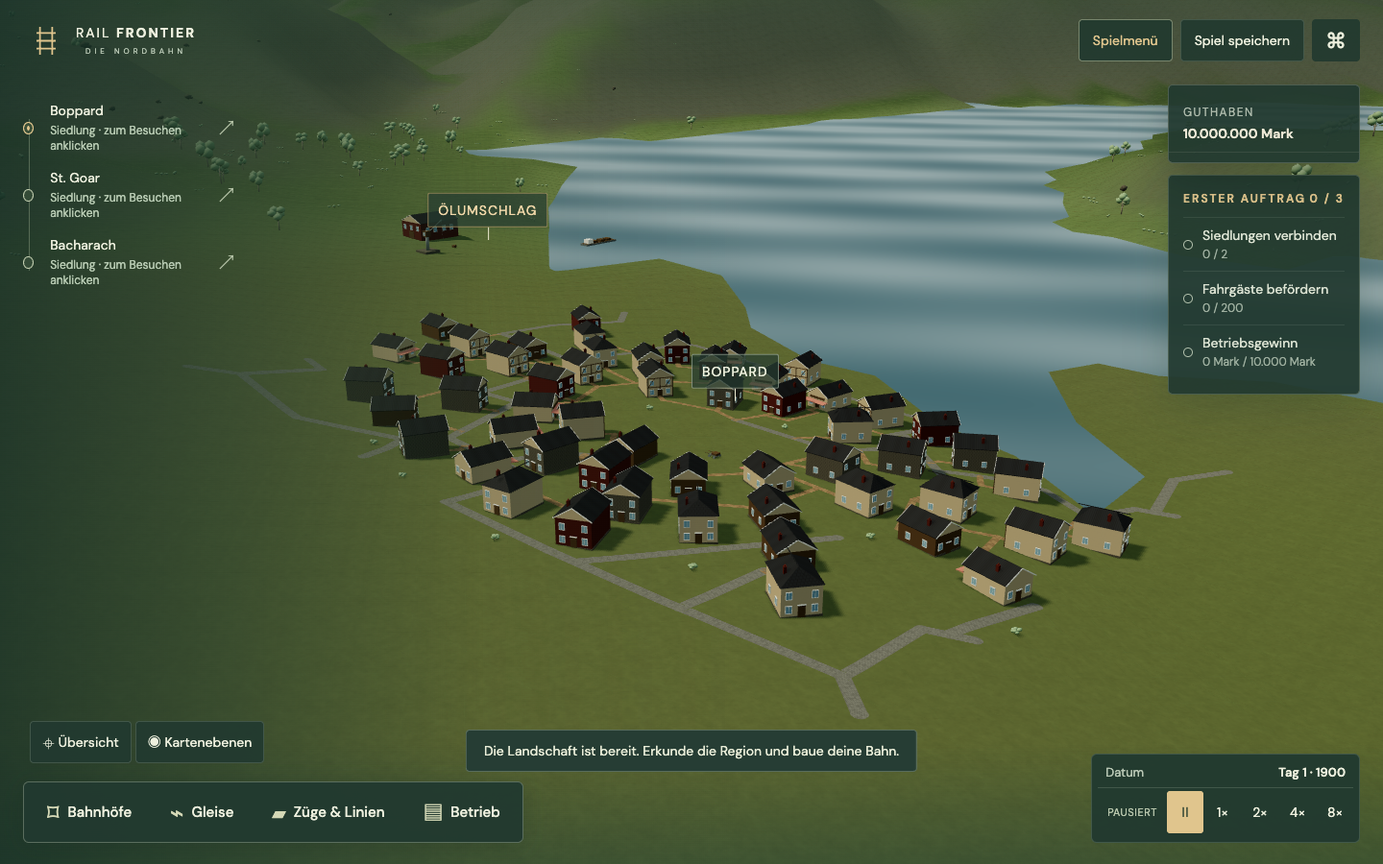
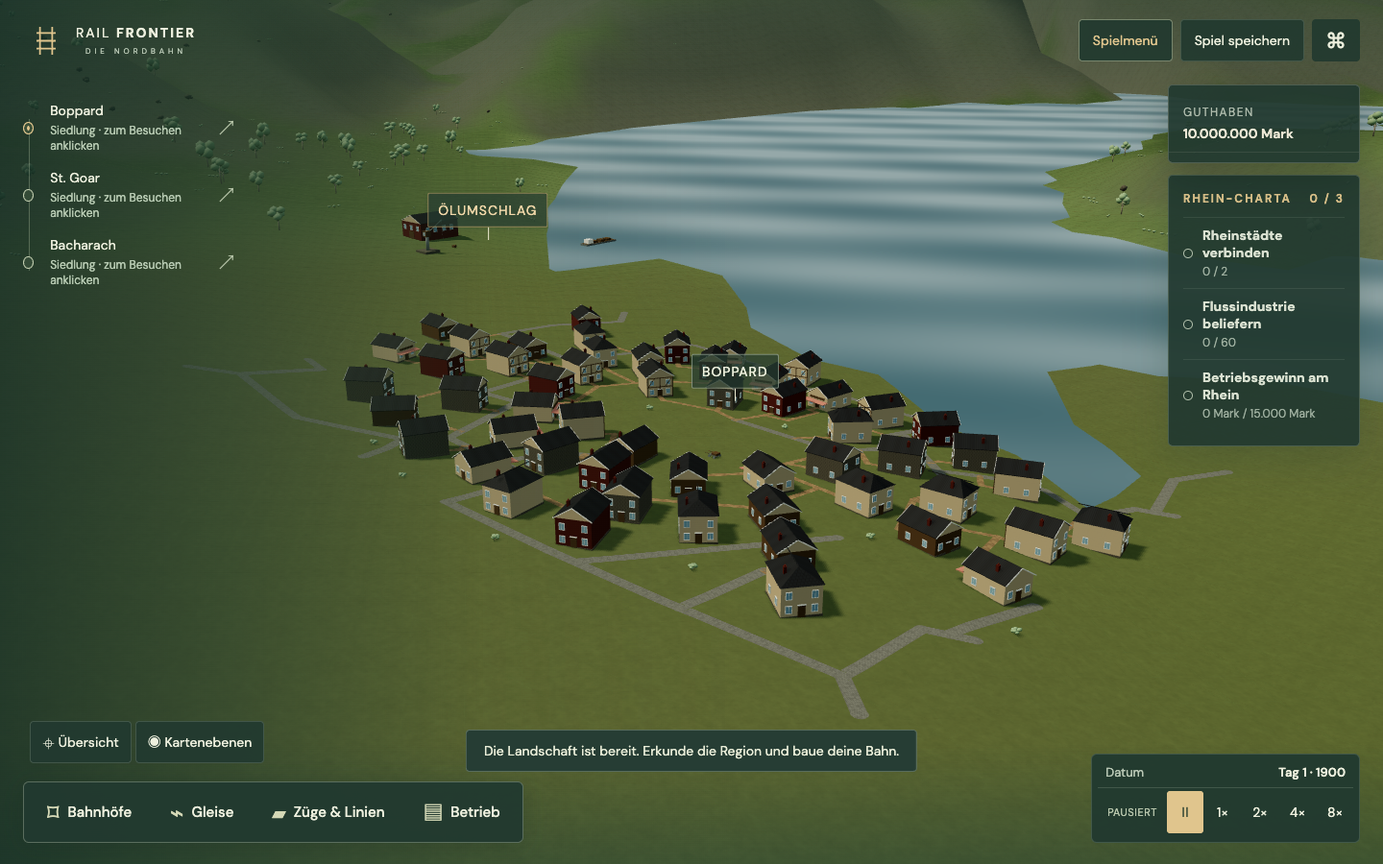
Refine regional water and campaign objectives

diff --git a/src/main.ts b/src/main.ts
@@ -136,10 +136,10 @@ setHtml(app, `
     <div class="study-note"><span>FIRST SERVICE</span><p id="service-summary">Preparing passenger operations.</p></div>
   </aside>
   <aside class="objective-card" aria-label="Campaign objectives">
-    <p class="eyebrow">FIRST CHARTER <span id="objective-count">0 / 3</span></p>
-    <div class="objective-row" data-objective="first-connection"><i></i><span>Connect settlements<small id="objective-connection">0 / 2</small></span></div>
-    <div class="objective-row" data-objective="first-passengers"><i></i><span>Carry passengers<small id="objective-passengers">0 / 200</small></span></div>
-    <div class="objective-row" data-objective="profitable-railway"><i></i><span>Operating profit<small id="objective-profit">NOK 0 / 10,000</small></span></div>
+    <p class="eyebrow"><span id="objective-title">FIRST CHARTER</span> <span id="objective-count">0 / 3</span></p>
+    <div class="objective-row" data-objective="first-connection"><i></i><span><b id="objective-label-0">Connect settlements</b><small id="objective-progress-0">0 / 2</small></span></div>
+    <div class="objective-row" data-objective="first-passengers"><i></i><span><b id="objective-label-1">Carry passengers</b><small id="objective-progress-1">0 / 200</small></span></div>
+    <div class="objective-row" data-objective="profitable-railway"><i></i><span><b id="objective-label-2">Operating profit</b><small id="objective-progress-2">NOK 0 / 10,000</small></span></div>
   </aside>
   <aside id="tutorial-card" class="tutorial-card" aria-label="Your first railway introduction" hidden>
     <div class="tutorial-progress"><span id="tutorial-step">STEP 1 OF 7</span><button id="dismiss-tutorial" type="button">End introduction</button></div>
@@ -714,16 +714,15 @@ const formatDate = (value: string) => {const date = new Date(value);return Numbe
 const formatBytes = (value: number) => value < 1_000_000 ? `${Math.round(value / 1000)} KB` : `${(value / 1_000_000).toFixed(1)} MB`;
 function updateObjectives(state: Readonly<GameState>): void {
   setMoneyRegion(state.campaignId,currentYear(state));
-  const values: {id: string;value: number;target: number;}[] = [
-  { id: 'first-connection', value: state.objectiveProgress['first-connection'] ?? 0, target: 2 },
-  { id: 'first-passengers', value: state.objectiveProgress['first-passengers'] ?? 0, target: 200 },
-  { id: 'profitable-railway', value: state.objectiveProgress['profitable-railway'] ?? 0, target: 1_000_000 }];
-
-  setText(element('#objective-connection'), `${Math.min(values[0]!.value, 2)} / 2`);
-  setText(element('#objective-passengers'), `${Math.min(values[1]!.value, 200).toLocaleString(locale())} / 200`);
-  setText(element('#objective-profit'), `${money(Math.min(values[2]!.value, 1_000_000))} / ${money(1_000_000)}`);
-  const completed = new Set(state.operations.completedObjectives);for (const objective of values) element(`[data-objective="${objective.id}"]`).classList.toggle('complete', completed.has(objective.id));
-  setText(element('#objective-count'), `${values.filter((objective) => completed.has(objective.id)).length} / ${values.length}`);
+  const campaign=campaignContentRegistry.resolve(state).campaign,completed=new Set(state.operations.completedObjectives),title=state.campaignId==='middle-rhine'?'RHINE CHARTER':state.campaignId==='tyne-wear-coast'?'INDUSTRIAL CHARTER':'FIRST CHARTER';
+  setText(element('#objective-title'),translate(title));
+  const labels=state.campaignId==='middle-rhine'?['Connect Rhine towns','Supply river industries','Rhine operating profit']:state.campaignId==='tyne-wear-coast'?['Link coalfield and coast','Move coal, ore and steel','Industrial operating profit']:['Connect settlements','Carry passengers','Operating profit'];
+  campaign.objectives.forEach((objective,index)=>{
+    const row=element<HTMLElement>(`.objective-row:nth-of-type(${index+1})`),value=state.objectiveProgress[objective.id]??0;
+    row.dataset.objective=objective.id;row.classList.toggle('complete',completed.has(objective.id));setText(element(`#objective-label-${index}`),translate(labels[index]!));
+    setText(element(`#objective-progress-${index}`),objective.type==='operatingProfit'?`${money(Math.min(value,objective.target))} / ${money(objective.target)}`:`${Math.min(value,objective.target).toLocaleString(locale())} / ${objective.target.toLocaleString(locale())}`);
+  });
+  setText(element('#objective-count'), `${campaign.objectives.filter((objective) => completed.has(objective.id)).length} / ${campaign.objectives.length}`);
 }
 function message(error: unknown): string {return error instanceof Error ? error.message : String(error);}
 void start().catch((error) => {console.error(error);element('#toast').classList.add('visible', 'error');setText(element('#toast'), `The study could not start: ${message(error)}`);setText(element('#fps'), 'STARTUP FAILED');});

diff --git a/tests/europe.test.ts b/tests/europe.test.ts
@@ -7,14 +7,24 @@ import {createInitialState} from '../src/content/norway.js';
 import {addRegionalIndustries,industryDefinition} from '../src/content/industries.js';
 import {availableVehicles,vehicleDefinition} from '../src/content/vehicles.js';
 import {generateRegionalPlots,generateRegionalScenery} from '../src/rendering/regional-placement.js';
+import {waterSurfacePositions} from '../src/rendering/water-surface.js';
+import {Heightfield} from '../src/world/terrain.js';
 import {RailFrontierGame} from '../src/application/game.js';
 import {bestStationOrientation,surveyStationSite,straightCurve} from '../src/rail/station-layout.js';
 import {stationDefinitions} from '../src/content/stations.js';
 import {deserialize,serialize} from '../src/persistence/save.js';
 import {freightRoom,serviceFreight} from '../src/simulation/transfer.js';
 import {advanceIndustries} from '../src/simulation/industry.js';
+import {evaluateObjectives} from '../src/simulation/objectives.js';
 import type {GameState,Train} from '../src/domain/model.js';
 import {readFileSync} from 'node:fs';
+
+test('regional water clips at the interpolated shoreline instead of filling dry grid squares',()=>{
+ const terrain=new Heightfield(2,2,80,new Float64Array([-2,4,4,4]),0),positions=waterSurfacePositions(terrain);
+ assert.ok(positions.length>=9);assert.equal(positions.length%9,0);
+ const shoreline=[...positions].filter((_,index)=>index%3!==1);assert.ok(shoreline.some(value=>value>0&&value<80));
+ for(let i=0;i<positions.length;i+=3)assert.ok(positions[i]!>=0&&positions[i]!<=80&&positions[i+2]!>=0&&positions[i+2]!<=80);
+});
 
 for(const region of ['rhine','tyne'] as const)test(`${region}: real DEM, playable towns, region catalogue and save round trip`,()=>{
  const campaign=europeCampaigns[region],state=createInitialState(campaign),content=campaignContentRegistry.resolve(state),terrain=content.worldGenerator.generate(state.world),dem=europeDem[region];addRegionalIndustries(state,terrain);
@@ -26,6 +36,7 @@ for(const region of ['rhine','tyne'] as const)test(`${region}: real DEM, playabl
  const pack=JSON.parse(readFileSync(`assets/runtime/packs/${region}.json`,'utf8')),ids=new Set(pack.assets.map((a:{id:string})=>a.id));const available=availableVehicles(1900,undefined,campaign.id);assert.ok(available.length>=6);for(const v of available)assert.ok(ids.has(v.id),v.id);assert.equal(available.filter(d=>d.kind==='locomotive').length,1);assert.equal(availableVehicles(2000,'locomotive',campaign.id).length,4);assert.equal(available.some(v=>v.id.startsWith('nord')),false);
  const plots=generateRegionalPlots(terrain,state);assert.ok(plots.filter(p=>p.townId).length>60);assert.deepEqual(plots,generateRegionalPlots(terrain,state));for(const p of plots)assert.ok(ids.has(p.assetId),p.assetId);
  const plants=generateRegionalScenery(terrain,state,2500);assert.equal(plants.length,2500);assert.ok(plants.some(p=>p.category==='understorey'));for(const p of plants){assert.ok(ids.has(p.assetId),p.assetId);assert.ok(p.y>terrain.sample(p.x,p.z).waterLevelM!);}
+ if(region==='rhine')for(let z=0;z<=terrain.depthM;z+=terrain.cellM)assert.ok(Array.from({length:401},(_,ix)=>terrain.sample(ix*terrain.cellM,z)).some(sample=>sample.elevationM<sample.waterLevelM!),`Rhine channel interrupted at ${z} m`);
 });
 
 function industrialFixture():GameState {
@@ -44,6 +55,10 @@ test('regional mixed freight respects compatible wagon space, converts coal and 
  const restored=deserialize(serialize(s)),train=restored.trains[0]!;train.cargo[0]!.distanceM=3000;serviceFreight(restored,train,'station:8');assert.equal(restored.operations.delivered.steel,12);const cash=restored.company.cash;serviceFreight(restored,train,'station:8');assert.equal(restored.company.cash,cash);
  for(let i=0;i<600;i++)advanceIndustries(restored);assert.equal(restored.industries[2]!.inventory.steel,4);assert.equal(restored.industries[2]!.inventory.oil,8);
  const bad=structuredClone(restored);bad.trains[0]!.locomotiveId='nord-2-6-0';assert.throws(()=>serialize(bad),/another region/);bad.trains[0]!.locomotiveId='tyne-class91';assert.throws(()=>serialize(bad),/future year/);
+});
+test('Tyne freight charter progresses from delivered industrial cargo',()=>{
+ const state=industrialFixture();state.operations.delivered.coal=55;state.operations.delivered.ore=25;state.operations.delivered.steel=20;evaluateObjectives(state);
+ assert.equal(state.objectiveProgress['tyne-freight'],100);assert.ok(state.operations.completedObjectives.includes('tyne-freight'));assert.equal(state.objectiveProgress['first-passengers'],undefined);
 });
 test('v11 companies migrate without inventing freight or changing their balances',()=>{
  const s=createInitialState(),doc=JSON.parse(serialize(s));doc.schemaVersion=11;doc.gameVersion='0.11.0';assert.deepEqual(deserialize(JSON.stringify(doc)),s);

diff --git a/src/world/europe.ts b/src/world/europe.ts
@@ -19,6 +19,11 @@ class RegionalHeightfield extends Heightfield {
  override sample(x:number,z:number){return {...super.sample(x,z),waterLevelM:regionalWaterLevel(this.region,z)};}
 }
 const cache=new Map<EuropeRegion,Heightfield>();
+function rhineCentreline(d:typeof rhineDem,heights:Float64Array,sites:{x:number;z:number}[]):number[] {
+ const ordered=[...sites].sort((a,b)=>a.z-b.z),expected=(z:number)=>{let a=ordered[0]!,b=ordered[1]!;if(z>=ordered.at(-1)!.z){a=ordered.at(-2)!;b=ordered.at(-1)!;}else for(let i=1;i<ordered.length;i++)if(z<=ordered[i]!.z){a=ordered[i-1]!;b=ordered[i]!;break;}const t=(z-a.z)/(b.z-a.z);return a.x+(b.x-a.x)*t;},raw:number[]=[];
+ for(let iz=0;iz<d.rows;iz++){const target=Math.round(expected(iz*d.cellM)/d.cellM),start=Math.max(0,target-18),end=Math.min(d.columns-1,target+18);let best=start;for(let ix=start+1;ix<=end;ix++)if(heights[iz*d.columns+ix]!<heights[iz*d.columns+best]!)best=ix;raw.push(best*d.cellM);}
+ return raw.map((_,index)=>{let sum=0,weight=0;for(let offset=-4;offset<=4;offset++){const sample=raw[Math.max(0,Math.min(raw.length-1,index+offset))]!,w=5-Math.abs(offset);sum+=sample*w;weight+=w;}return sum/weight;});
+}
 export function europeHeightfield(region:EuropeRegion):Heightfield {
  const existing=cache.get(region);if(existing)return existing;
  const d=europeDem[region],size=d.heights.length,heights=Float64Array.from(d.heights),forest=new Float32Array(size),rock=new Float32Array(size),urban=new Float32Array(size),sites=europeSites[region].map(s=>geoPoint(region,s.latitude,s.longitude));
@@ -27,8 +32,12 @@ export function europeHeightfield(region:EuropeRegion):Heightfield {
   forest[i]=y>regionalWaterLevel(region,z)+2?(1-urban[i]!)*(region==='rhine'?.25+patch*.7:patch*.52):0;rock[i]=Math.min(1,slope*1.8);
  }
  // Skadi measures the river surface, not its bed. Reconstruct shallow bathymetry
- // in the DEM's low valley band so noisy water returns do not become grass islands.
- if(region==='rhine')for(let i=0;i<size;i++){const z=Math.floor(i/d.columns)*d.cellM,water=regionalWaterLevel(region,z),delta=heights[i]!-water;if(delta<7){const edge=Math.max(0,Math.min(1,delta/7));heights[i]=water-4+Math.pow(edge,3)*11;}}
+ // in the DEM's low valley band and a narrow continuous thalweg following the
+ // locally lowest samples near the real settlement corridor.
+ if(region==='rhine'){
+  for(let i=0;i<size;i++){const z=Math.floor(i/d.columns)*d.cellM,water=regionalWaterLevel(region,z),delta=heights[i]!-water;if(delta<7){const edge=Math.max(0,Math.min(1,delta/7));heights[i]=water-4+Math.pow(edge,3)*11;}}
+  const centres=rhineCentreline(d,heights,sites);for(let iz=0;iz<d.rows;iz++)for(let ix=0;ix<d.columns;ix++){const distance=Math.abs(ix*d.cellM-centres[iz]!),edge=Math.min(1,distance/230),target=regionalWaterLevel(region,iz*d.cellM)-4+edge*edge*7;if(distance<230)heights[iz*d.columns+ix]=Math.min(heights[iz*d.columns+ix]!,target);}
+ }
  const result=new RegionalHeightfield(region,heights,{forest,rock,urban});cache.set(region,result);return result;
 }
 export function europeGenerator(region:EuropeRegion):WorldGenerator {

diff --git a/src/rendering/fjord-renderer.ts b/src/rendering/fjord-renderer.ts
@@ -36,6 +36,7 @@ import {generateArizonaSettlements} from './arizona-settlement-placement.js';
 import type {CampaignContent} from '../content/registry.js';
 import type {StationSite} from '../rail/station-layout.js';
 import {BRIDGE_MODULE_LENGTH_M,deriveInfrastructurePlacements} from './infrastructure-placement.js';
+import {waterSurfacePositions} from './water-surface.js';
 
 export interface RenderStats { calls:number;triangles:number;terrainTriangles:number;terrainPatchTriangles:number;geometries:number;textures:number;trees:number;detailedTrees:number;simplifiedTrees:number;buildings:number;trains:number;lod:number;terrainErrorM:number;terrainPatchCells:number;bridgeModules:number;bridgeAbutments:number;tunnelPortals:number;retainingWalls:number;contextLost:boolean }
 export interface AssetReport { name:string;lod:number;sizeM:number[];normalsFinite:boolean;materials:number;triangles:number }
@@ -274,10 +275,7 @@ export class FjordRenderer implements WorldRenderer {
         }`
     });
     if(this.content.presentation.proceduralScenery==='rhine'||this.content.presentation.proceduralScenery==='tyne'){
-      const positions:number[]=[],step=this.terrain.cellM;
-      for(let z=0;z<this.terrain.depthM;z+=step)for(let x=0;x<this.terrain.widthM;x+=step){const corners=[[x,z],[x+step,z],[x+step,z+step],[x,z+step]] as const,samples=corners.map(([a,b])=>this.terrain.sample(a,b));if(samples.every(s=>s.elevationM>(s.waterLevelM??0)+.5))continue;
-        for(const i of [0,2,1,0,3,2])positions.push(corners[i]![0],samples[i]!.waterLevelM!+.12,corners[i]![1]);}
-      const geometry=new THREE.BufferGeometry();geometry.setAttribute('position',new THREE.Float32BufferAttribute(positions,3));geometry.computeVertexNormals();return new THREE.Mesh(geometry,material);
+      const geometry=new THREE.BufferGeometry();geometry.setAttribute('position',new THREE.BufferAttribute(waterSurfacePositions(this.terrain),3));geometry.computeVertexNormals();return new THREE.Mesh(geometry,material);
     }
     const mesh=new THREE.Mesh(new THREE.PlaneGeometry(terrainSize(this.terrain),terrainSize(this.terrain)),material);mesh.rotation.x=-Math.PI/2;mesh.position.set(this.terrain.widthM/2,.15,this.terrain.depthM/2);return mesh;
   }

diff --git a/src/content/europe.ts b/src/content/europe.ts
@@ -4,7 +4,10 @@ import type {CampaignPresentation} from './presentation.js';
 import {europeGenerator,europeSites,europeDem,geoPoint,type EuropeRegion} from '../world/europe.js';
 export const europeCampaigns=Object.fromEntries((['rhine','tyne'] as const).map(region=>{
  const generator=europeGenerator(region),d=europeDem[region],seed=region==='rhine'?500722:550922;
- const campaign:CampaignDefinition={id:region==='rhine'?'middle-rhine':'tyne-wear-coast',version:1,title:region==='rhine'?'Middle Rhine':'Tyne & Wear Coast',startingYear:1900,startingCash:1_000_000_000,world:{seed,widthM:32000,depthM:32000,cellM:d.cellM,generatorVersion:1,biomeId:region},towns:europeSites[region].map((s,i)=>{const p=geoPoint(region,s.latitude,s.longitude);return{id:`town:${i+2}` as const,name:s.name,position:{...p,y:generator.elevation(p.x,p.z,seed)},population:s.population};}),objectives:[{id:'first-connection',type:'connectTowns',target:2},{id:'first-passengers',type:'deliverPassengers',target:200},{id:'profitable-railway',type:'operatingProfit',target:1_000_000}]};
+ const objectives:CampaignDefinition['objectives']=region==='rhine'?
+  [{id:'rhine-connection',type:'connectTowns',target:2},{id:'rhine-freight',type:'deliverFreight',target:60},{id:'rhine-profit',type:'operatingProfit',target:1_500_000}]:
+  [{id:'tyne-connection',type:'connectTowns',target:2},{id:'tyne-freight',type:'deliverFreight',target:100},{id:'tyne-profit',type:'operatingProfit',target:2_000_000}];
+ const campaign:CampaignDefinition={id:region==='rhine'?'middle-rhine':'tyne-wear-coast',version:1,title:region==='rhine'?'Middle Rhine':'Tyne & Wear Coast',startingYear:1900,startingCash:1_000_000_000,world:{seed,widthM:32000,depthM:32000,cellM:d.cellM,generatorVersion:1,biomeId:region},towns:europeSites[region].map((s,i)=>{const p=geoPoint(region,s.latitude,s.longitude);return{id:`town:${i+2}` as const,name:s.name,position:{...p,y:generator.elevation(p.x,p.z,seed)},population:s.population};}),objectives};
  return [region,campaign];
 })) as Record<EuropeRegion,CampaignDefinition>;
 export function europePresentation(region:EuropeRegion):CampaignPresentation {

diff --git a/src/simulation/objectives.ts b/src/simulation/objectives.ts
@@ -1,9 +1,10 @@
 import { norway } from '../content/norway.js';
+import {europeCampaigns} from '../content/europe.js';
 import type { CampaignDefinition, GameState, Id } from '../domain/model.js';
 import { townCoverage } from './coverage.js';
 
 const fjordStudy:CampaignDefinition={...norway,id:'fjord-study',title:'The Northern Line'};
-const registry=new Map<string,CampaignDefinition>([[`${norway.id}@${norway.version}`,norway],[`${fjordStudy.id}@${fjordStudy.version}`,fjordStudy]]);
+const registry=new Map<string,CampaignDefinition>([norway,fjordStudy,europeCampaigns.rhine,europeCampaigns.tyne].map(campaign=>[`${campaign.id}@${campaign.version}`,campaign]));
 
 function connectedCoveredTowns(state:GameState):number {
   const coverage=townCoverage(state),stationById=new Map(state.stations.map(station=>[station.id,station])),adjacency=new Map<Id<'node'>,Id<'node'>[]>();
@@ -21,7 +22,7 @@ export function evaluateObjectives(state:GameState):void {
   const campaign=registry.get(`${state.campaignId}@${state.campaignVersion}`);if(!campaign)return;
   const revenue=state.operations.monthlyAccounts.reduce((sum,account)=>sum+account.revenue,0),operating=state.operations.monthlyAccounts.reduce((sum,account)=>sum+account.operatingCost,0);
   for(const objective of campaign.objectives) {
-    const progress=objective.type==='connectTowns'?connectedCoveredTowns(state):objective.type==='deliverPassengers'?state.operations.delivered.passengers:Math.max(0,revenue-operating);
+    const progress=objective.type==='connectTowns'?connectedCoveredTowns(state):objective.type==='deliverPassengers'?state.operations.delivered.passengers:objective.type==='deliverFreight'?(['timber','lumber','coal','ore','steel','oil'] as const).reduce((sum,kind)=>sum+(state.operations.delivered[kind]??0),0):Math.max(0,revenue-operating);
     state.objectiveProgress[objective.id]=progress;
     if(progress>=objective.target&&!state.operations.completedObjectives.includes(objective.id))state.operations.completedObjectives.push(objective.id);
   }

diff --git a/src/rendering/water-surface.ts b/src/rendering/water-surface.ts
@@ -1,0 +1,38 @@
+import type {GridTerrain,TerrainSample} from '../world/terrain.js';
+
+interface ShoreVertex {x:number;z:number;water:number;depth:number}
+
+const vertex=(terrain:GridTerrain,x:number,z:number):ShoreVertex=>{
+  const sample:TerrainSample=terrain.sample(x,z),water=sample.waterLevelM;
+  if(water===null)throw new Error('Cannot build a water surface without a water level');
+  return{x,z,water,depth:water+.25-sample.elevationM};
+};
+
+const crossing=(a:ShoreVertex,b:ShoreVertex):ShoreVertex=>{
+  const t=a.depth/(a.depth-b.depth);
+  return{x:a.x+(b.x-a.x)*t,z:a.z+(b.z-a.z)*t,water:a.water+(b.water-a.water)*t,depth:0};
+};
+
+/** Clips each authoritative terrain triangle at its interpolated waterline.
+ * Shared triangle edges use the same scalar crossing, producing continuous
+ * river/coast silhouettes without the former whole-cell staircase.
+ */
+export function waterSurfacePositions(terrain:GridTerrain):Float32Array {
+  if(terrain.waterLevelM===null)return new Float32Array();
+  const positions:number[]=[],step=terrain.cellM;
+  const append=(triangle:readonly ShoreVertex[])=>{
+    const polygon:ShoreVertex[]=[];
+    for(let i=0;i<triangle.length;i++){
+      const a=triangle[i]!,b=triangle[(i+1)%triangle.length]!,aWet=a.depth>=0,bWet=b.depth>=0;
+      if(aWet&&bWet)polygon.push(b);
+      else if(aWet&&!bWet)polygon.push(crossing(a,b));
+      else if(!aWet&&bWet)polygon.push(crossing(a,b),b);
+    }
+    for(let i=1;i+1<polygon.length;i++)for(const point of [polygon[0]!,polygon[i]!,polygon[i+1]!])positions.push(point.x,point.water+.12,point.z);
+  };
+  for(let z=0;z<terrain.depthM;z+=step)for(let x=0;x<terrain.widthM;x+=step){
+    const nw=vertex(terrain,x,z),ne=vertex(terrain,x+step,z),se=vertex(terrain,x+step,z+step),sw=vertex(terrain,x,z+step);
+    append([nw,se,ne]);append([nw,sw,se]);
+  }
+  return new Float32Array(positions);
+}

diff --git a/tests/browser/regions.spec.ts b/tests/browser/regions.spec.ts
@@ -27,6 +27,8 @@ for(const region of ['rhine','tyne'] as const)test(`${region} catalogue renders 
   await page.goto(`/?skip-menu=1&world=${region}&lang=de`);await page.waitForFunction(()=>window.__railProbe?.ready,{timeout:90000});
   await page.evaluate(()=>window.__railProbe.setSpeed(0));
   await expect(page.locator('#cash')).toContainText(region==='rhine'?'Mark':'£');
+  await expect(page.locator('#objective-title')).toContainText(region==='rhine'?'RHEIN-CHARTA':'INDUSTRIE-CHARTA');
+  await expect(page.locator('#objective-label-1')).toContainText(region==='rhine'?'Flussindustrie':'Kohle, Erz und Stahl');
   const probe=await page.evaluate(()=>({state:window.__railProbe.snapshot(),stats:window.__railProbe.stats(),assets:window.__railProbe.assets}));
   expect(probe.state.world.widthM).toBe(32000);expect(probe.state.industries).toHaveLength(5);expect(probe.stats.buildings).toBeGreaterThan(160);expect(probe.stats.trees).toBeGreaterThan(3000);
   expect(probe.assets.filter((asset:{name:string})=>asset.name.startsWith(region+'-'))).toHaveLength(92);

diff --git a/src/domain/model.ts b/src/domain/model.ts
@@ -37,7 +37,7 @@ export interface WorldDefinition { seed: number; widthM: number; depthM: number;
 export interface CampaignDefinition {
   id: string; version: number; title: string; startingYear: number; startingCash: Money;
   world: WorldDefinition; towns: Town[];
-  objectives: { id: string; type: 'connectTowns' | 'deliverPassengers' | 'operatingProfit'; target: number }[];
+  objectives: { id: string; type: 'connectTowns' | 'deliverPassengers' | 'deliverFreight' | 'operatingProfit'; target: number }[];
 }
 export type TutorialStage='station-one'|'station-two'|'track-planned'|'track-built'|'train-bought'|'service-started'|'first-revenue';
 export interface LearningState {

diff --git a/CURRENT_STATUS.md b/CURRENT_STATUS.md
@@ -22,9 +22,11 @@ AWAITING_USER_PLAYTEST=true
 - Added selectable, playable 32 × 32 km Middle Rhine and Tyne/Wear companies over reproducibly imported real elevation grids. The regional compositions include Boppard/St. Goar/Bacharach and Newcastle/North Shields/Sunderland, terrain-aware settlement placement, roads, vegetation, ports and five industry sites.
 - Local Blender generated 46 assets per European region in two LODs: regional buildings, three station eras, industries, vegetation, infrastructure, props, four locomotive eras and eight coach/wagon types. Arizona gains a windpump, ranch fence and eight desert vegetation assets. Original external PBR tiles and pack validation are included.
 - Coal, ore, steel and oil inventories, wagon-specific freight capacity, region/year purchase filtering, regional currency display and schema-12 migration are integrated. New European station previews automatically select a low-relief orientation while preserving manual rotation.
+- Regional water now clips each authoritative terrain triangle at the interpolated shoreline. The Rhine additionally reconstructs a narrow continuous channel along the local valley minimum where Skadi records the water surface instead of bathymetry. Tyne/Wear retains its real-height estuary and coast without square water-cell steps.
+- Rhein-Charta and Tyne/Wear Industrie-Charta replace the copied Norway targets. Their freight objectives count delivered industrial cargo in the simulation; titles, labels, targets and regional currency render dynamically in German and English.
 - Terrain source URLs, hashes, bounds, licence and attribution are bundled. Real height data is the geographic base; water stages, settlements, roads and industry sites are selective game compositions.
-- Verification: **242/242** core tests, **4/4** focused Chrome journeys, TypeScript, production build, asset validation and diff hygiene pass. New actual-renderer README images show Boppard, Newcastle and the Arizona windpump. [Full scope, provenance and limits](docs/world/REGIONAL_EXPANSION_CHECKPOINT.md).
-- Next: improve the strategic water silhouettes and begin authored region-specific objectives/balance after player review. Moving residents/traffic/animals and physical multi-platform yards remain separate planned work.
+- Verification: **244/244** core tests, **4/4** focused Chrome journeys, TypeScript, production build, asset validation and diff hygiene pass. New actual-renderer README images show Boppard, Newcastle and the Arizona windpump. [Full scope, provenance and limits](docs/world/REGIONAL_EXPANSION_CHECKPOINT.md).
+- Next: player review, then region-specific demand/pricing balance and authored harbour detail. Moving residents/traffic/animals and physical multi-platform yards remain separate planned work.
 
 ## LIV-01c: navigable junctions and explicit entrances — 2026-09-22
 
@@ -287,7 +289,7 @@ Still open: full ordered-corridor search, connected campaign progression, railwa
 
 ## Currently working
 
-The current user priority is regional expansion. The Middle Rhine and Tyne/Wear foundations plus the Arizona windpump/vegetation pass are implemented and ready for player review. The next regional pass should refine far-view water silhouettes and add authored objectives/balance. The earlier living-settlement roadmap remains valid after that review; the drawn-route human acceptance also remains open. Do not resume the earlier SOL-pause instruction.
+The current user priority is regional expansion. The Middle Rhine and Tyne/Wear foundations, interpolated water silhouettes, regional charters and the Arizona windpump/vegetation pass are implemented and ready for player review. The next regional pass should tune demand/prices and add harbour detail. The earlier living-settlement roadmap remains valid after that review; the drawn-route human acceptance also remains open. Do not resume the earlier SOL-pause instruction.
 
 Norway V3, Arizona V2, Middle Rhine V1 and Tyne/Wear V1 are current. Arizona remains a terrain study; the two European additions are playable free-company foundations. Current saves use schema 12; schema 11 companies migrate without regional assets being invented.
 

diff --git a/README.md b/README.md
@@ -8,7 +8,7 @@ Astra and Sol refer to Codex models. The actual rendering engine is **Three.js**
 
 ## September 22 — Middle Rhine, Tyne/Wear and the Arizona ranch
 
-Two new 32 km playable regions can now be selected when starting a company. **Middle Rhine** follows a real elevation corridor around Boppard, St. Goar and Bacharach; **Tyne & Wear** covers Newcastle, North Shields and Sunderland. Each has its own locally generated Blender catalogue for regional houses, period stations, mines, steelworks, ports, vegetation, props, four locomotive eras and eight coach/wagon types. Coal, ore, steel and oil work through the existing inventory and train-service simulation. The year and region limit which vehicles may be bought.
+Two new 32 km playable regions can now be selected when starting a company. **Middle Rhine** follows a real elevation corridor around Boppard, St. Goar and Bacharach; **Tyne & Wear** covers Newcastle, North Shields and Sunderland. Each has its own locally generated Blender catalogue for regional houses, period stations, mines, steelworks, ports, vegetation, props, four locomotive eras and eight coach/wagon types. Coal, ore, steel and oil work through the existing inventory and train-service simulation. The year and region limit which vehicles may be bought. Interpolated shore geometry removes the former square water steps; a reconstructed shallow Rhine channel bridges gaps where the elevation source measures the water surface instead of the river bed.
 
 | Middle Rhine settlement and river | Tyne/Wear industrial settlement |
 | --- | --- |
@@ -18,7 +18,7 @@ Arizona gains a ranch windpump, stock fencing and eight additional desert plant 
 
 ![Arizona ranch windpump, water tank, stock fence and desert vegetation](docs/screenshots/arizona-windpump.png)
 
-The European terrain is reproducibly resampled from real Mapzen/Skadi elevation tiles with source URLs, hashes and attribution bundled in the project. Water stages, roads, towns and industries are game compositions rather than exact historical reconstruction. **242 core tests and four new focused Chrome journeys pass**, together with TypeScript, production build and all regional asset checks. [Sources, asset inventory, integration details and limits](docs/world/REGIONAL_EXPANSION_CHECKPOINT.md).
+The European terrain is reproducibly resampled from real Mapzen/Skadi elevation tiles with source URLs, hashes and attribution bundled in the project. Water stages, roads, towns and industries are game compositions rather than exact historical reconstruction. The Rhein-Charta asks for connected river towns and industrial freight; the Tyne/Wear Industrie-Charta tracks coal, ore and steel deliveries. **244 core tests and four focused Chrome journeys pass**, together with TypeScript, production build and all regional asset checks. [Sources, asset inventory, integration details and limits](docs/world/REGIONAL_EXPANSION_CHECKPOINT.md).
 
 ## September 22 — paths that can be navigated
 

diff --git a/docs/world/REGIONAL_EXPANSION_CHECKPOINT.md b/docs/world/REGIONAL_EXPANSION_CHECKPOINT.md
@@ -41,6 +41,7 @@ Architecture and surface colour derive from broad regional references: stucco/sl
 - Coal, ore, steel and oil join the existing passenger, mail and timber cargo model.
 - Mines, terminals, steelworks, oil terminals and freight ports use explicit input/output inventories.
 - Freight capacity comes from the selected wagon rather than a generic train value.
+- The Rhine Charter requires a connected river railway, 60 units of industrial freight and a profitable operation. The Tyne/Wear Industrial Charter raises the freight target to 100 units and explicitly counts coal, ore and steel deliveries. Both are evaluated by the simulation and displayed in German and English.
 - The main menu filters locomotives and wagons by region and date.
 - German companies use Mark/DEM/EUR display periods; British companies use pounds.
 - New companies start with automatically terrain-aligned station orientation, while the player can still rotate the preview.
@@ -48,11 +49,11 @@ Architecture and surface colour derive from broad regional references: stucco/sl
 
 ## Validation
 
-- **242/242** Node tests pass, including real DEM anchors, catalogue integrity, mixed coal/ore-to-steel transfer, regional vehicle filtering, save migration and station orientation.
+- **244/244** Node tests pass, including real DEM anchors, continuous Rhine water, interpolated shore clipping, catalogue integrity, mixed coal/ore-to-steel transfer, regional objective progress, vehicle filtering, save migration and station orientation.
 - **4/4** focused Chrome journeys pass: campaign selection, station placement, regional stock, Middle Rhine rendering, Tyne/Wear rendering and Arizona windpump/vegetation.
 - TypeScript, production build, external texture checks, marker checks and close/far asset budgets pass.
 - Actual-renderer evidence is stored in `docs/screenshots/middle-rhine-settlement.png`, `docs/screenshots/tyne-wear-settlement.png` and `docs/screenshots/arizona-windpump.png`.
 
 ## Known limits
 
-These are playable regional foundations, not finished historical campaigns. They reuse the current objectives and economy balance. The strategic water mask is intentionally low resolution at the far camera; harbours and river/coast silhouettes need later art passes. Road traffic, moving residents/animals, physical freight yards, multiple platforms, turnouts and train reformation remain separate planned systems.
+These are playable regional foundations, not finished historical campaigns. Their opening charters are regional, while prices, demand generation and long-term economy balance still reuse the shared systems. The Rhine bed is a selective reconstruction from the valley floor and settlement corridor, not surveyed bathymetry. Harbours can receive later authored detail. Road traffic, moving residents/animals, physical freight yards, multiple platforms, turnouts and train reformation remain separate planned systems.
